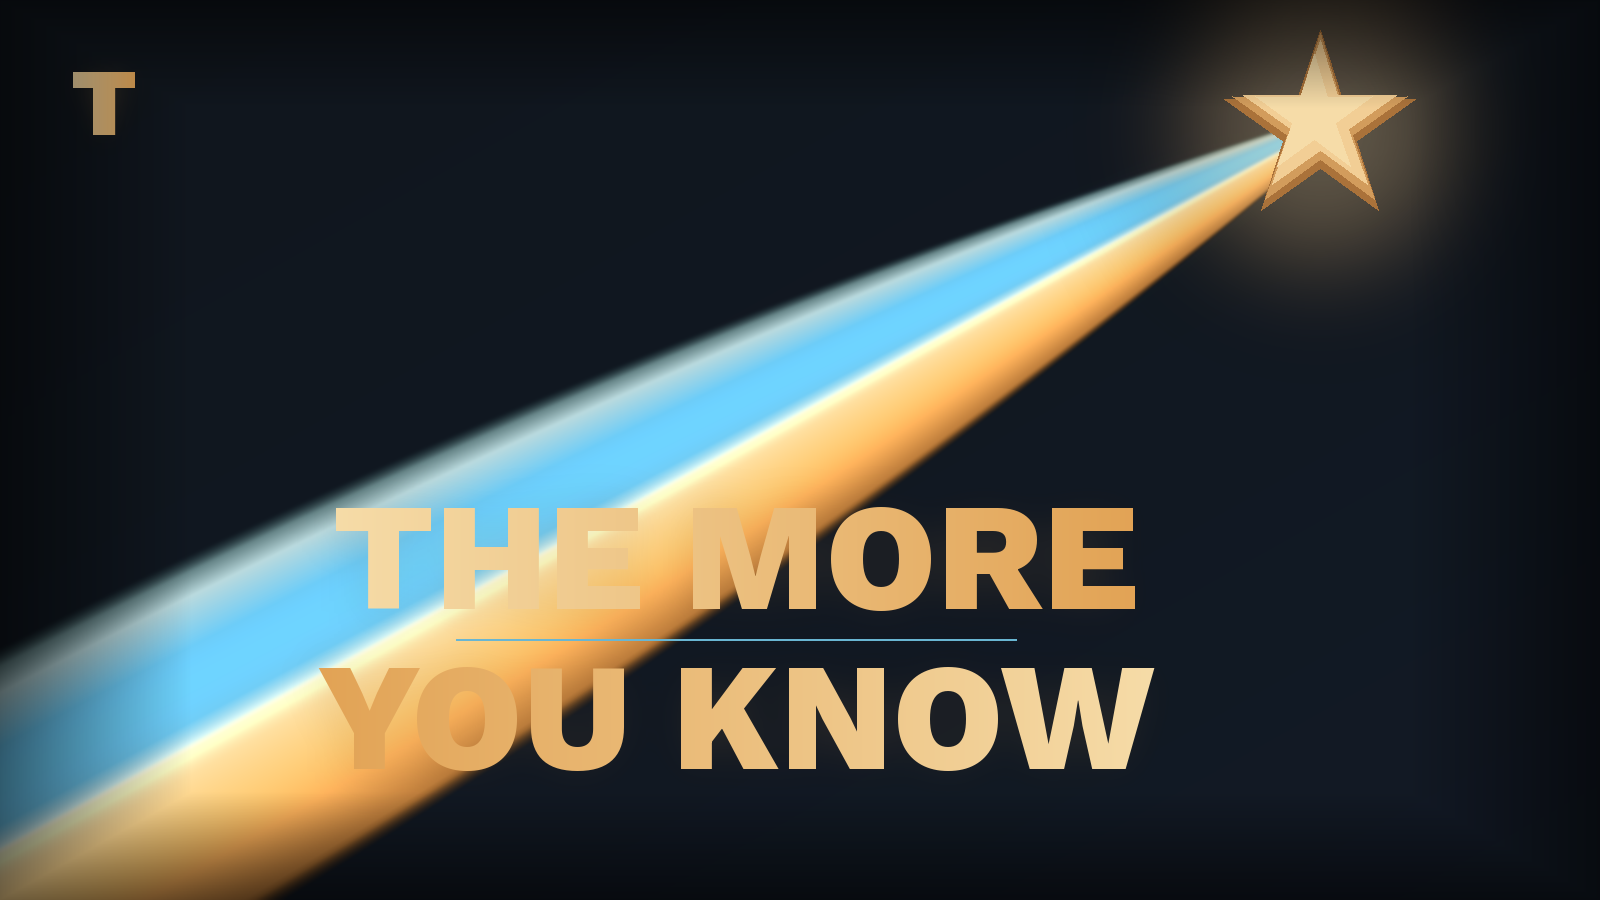
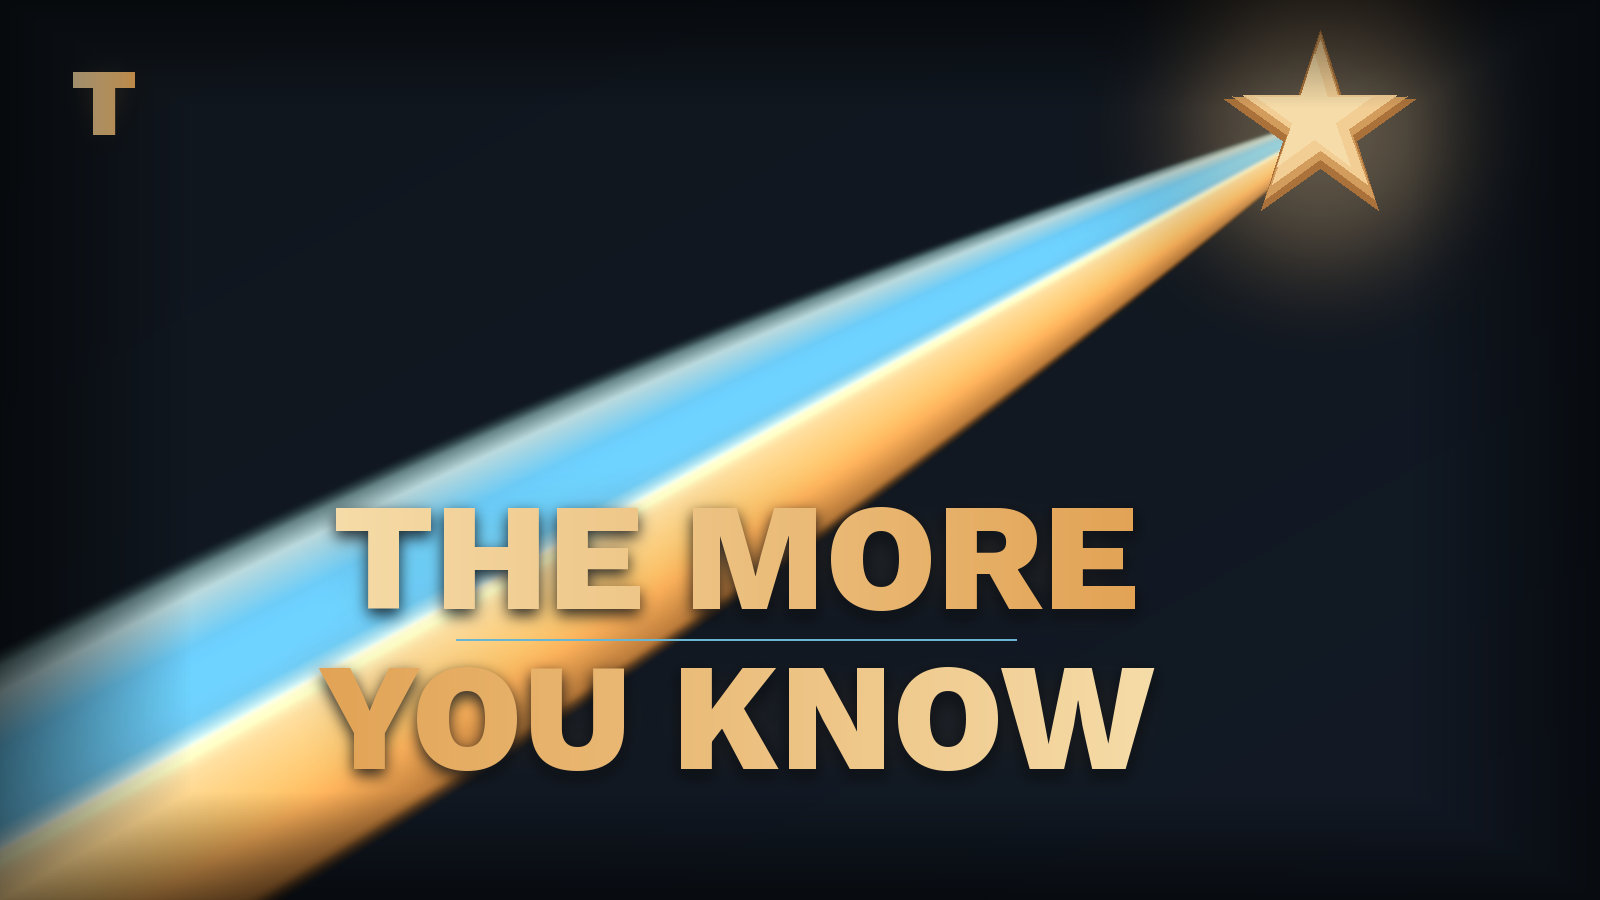
Fix text legibility: add drop shadow behind headline text
Gold text on the gold trail stripe was unreadable. Added a dark
(NIGHT) drop shadow with a 7px Gaussian blur behind each headline
line so the text reads cleanly regardless of what the trail puts
behind it.

https://claude.ai/code/session_01CezctGf6vzoHxstcG5N1or

Changed region(s): [[0.1875, 0.56, 0.5312, 0.7156], [0.1875, 0.7467, 0.375, 0.8711]]

diff --git a/tmyk_graphic.py b/tmyk_graphic.py
@@ -38,14 +38,31 @@ def load_font(size, weight=800):
     return ImageFont.load_default()
 
 
-# ── gradient text ─────────────────────────────────────────────────────────────
-def gradient_text(canvas, text, font, cx, cy, c_left, c_right):
+# ── text helpers ───────────────────────────────────────────────────────────────
+def _text_origin(text, font, cx, cy):
+    """Return (tx, ty) top-left draw position for centred text at (cx, cy)."""
     tmp  = Image.new('RGBA', (W, H), (0, 0, 0, 0))
     bbox = ImageDraw.Draw(tmp).textbbox((0, 0), text, font=font, anchor="lt")
     tw   = bbox[2] - bbox[0]
     th   = bbox[3] - bbox[1]
-    tx   = cx - tw / 2
-    ty   = cy - th / 2 - bbox[1]
+    return cx - tw / 2, cy - th / 2 - bbox[1]
+
+
+def text_shadow(canvas, text, font, cx, cy, dx=0, dy=5, blur=6, alpha=210):
+    """Dark drop shadow — call before gradient_text."""
+    tx, ty = _text_origin(text, font, cx, cy)
+    sh = Image.new('RGBA', (W, H), (0, 0, 0, 0))
+    ImageDraw.Draw(sh).text((tx + dx, ty + dy), text,
+                            font=font, fill=(*NIGHT, alpha), anchor="lt")
+    sh = sh.filter(ImageFilter.GaussianBlur(radius=blur))
+    canvas.alpha_composite(sh)
+
+
+def gradient_text(canvas, text, font, cx, cy, c_left, c_right):
+    tx, ty = _text_origin(text, font, cx, cy)
+    tmp    = Image.new('RGBA', (W, H), (0, 0, 0, 0))
+    bbox   = ImageDraw.Draw(tmp).textbbox((0, 0), text, font=font, anchor="lt")
+    tw     = bbox[2] - bbox[0]
 
     mask = Image.new('L', (W, H), 0)
     ImageDraw.Draw(mask).text((tx, ty), text, font=font, fill=255, anchor="lt")
@@ -266,6 +283,10 @@ def render():
             fill=(*GOLD_ACC, 40), anchor="mm")
     bloom = bloom.filter(ImageFilter.GaussianBlur(radius=22))
     canvas.alpha_composite(bloom)
+
+    # Drop shadows — make text readable against the gold trail stripe
+    text_shadow(canvas, "THE MORE", font_lg, text_cx, text_cy - 80, dy=6, blur=7, alpha=220)
+    text_shadow(canvas, "YOU KNOW", font_lg, text_cx, text_cy + 80, dy=6, blur=7, alpha=220)
 
     gradient_text(canvas, "THE MORE", font_lg, text_cx, text_cy - 80, GOLD_TXT, GOLD_ACC)
     gradient_text(canvas, "YOU KNOW", font_lg, text_cx, text_cy + 80, GOLD_ACC, GOLD_TXT)
